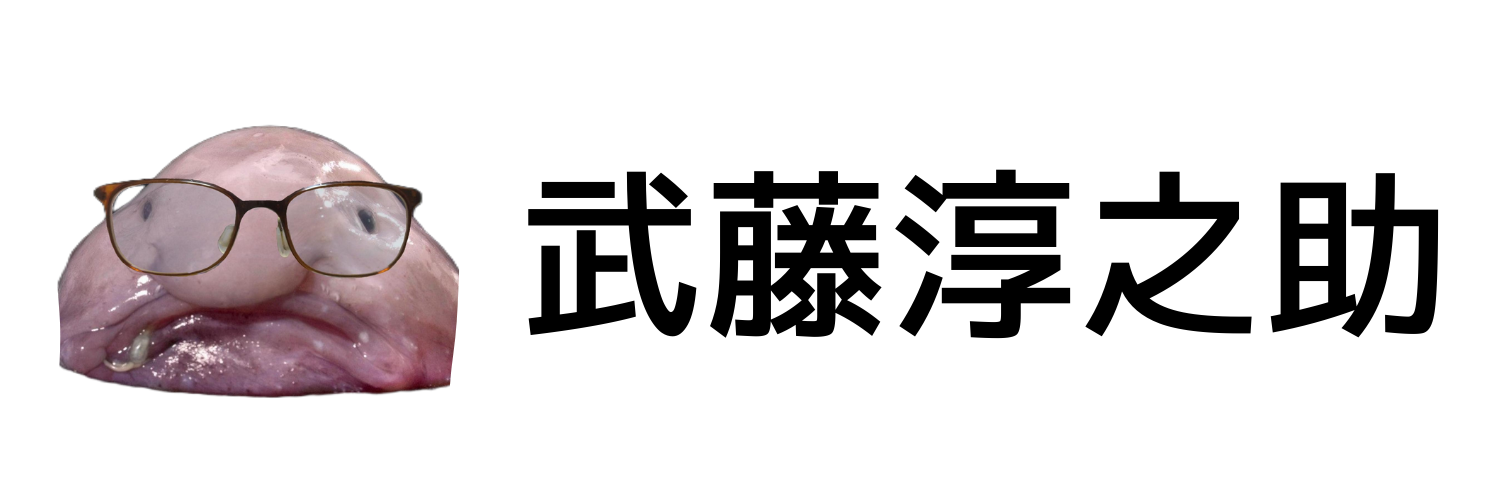
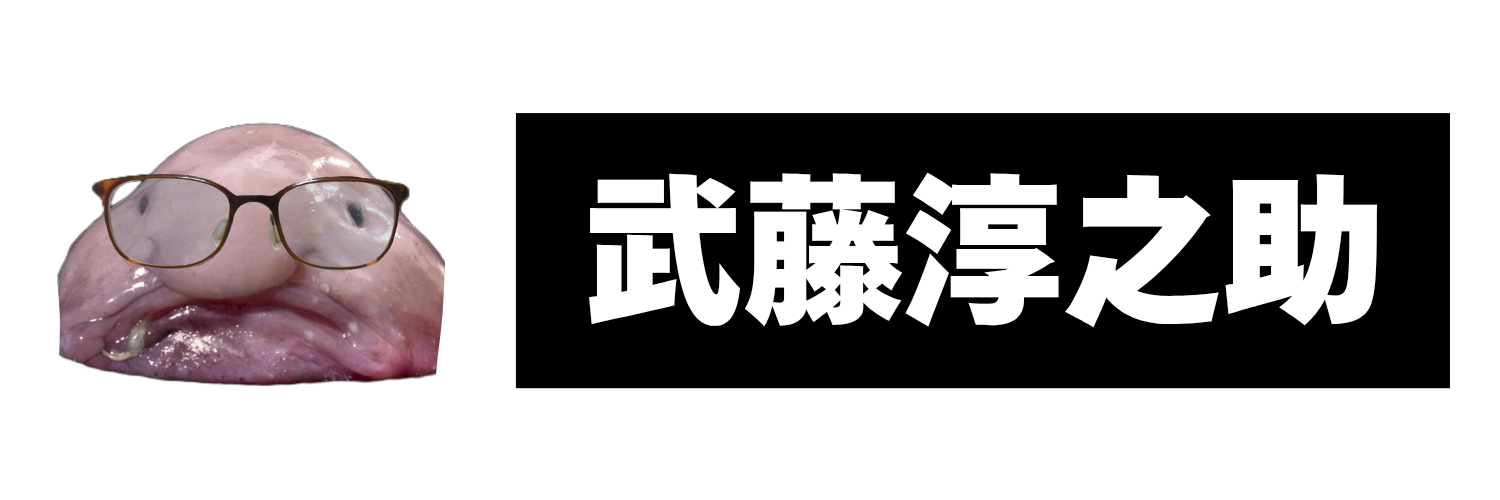
ヘッダーを変更、UI微調整

diff --git a/app/page.tsx b/app/page.tsx
@@ -13,7 +13,11 @@ export default function Home() {
         />
       </div>
       <div className="flex justify-center mt-4">
-        <h1 className="max-sm:text-xl sm:text-2xl font-bold">武藤淳之助チャンネル　楽譜配布サイト</h1>
+        <div className="flex flex-col items-center space-y-2">
+          <h1 className="max-sm:text-3xl sm:text-4xl font-extrabold flex items-center">武藤淳之助チャンネル</h1>
+          <h1 className="max-sm:text-3xl sm:text-4xl font-extrabold flex items-center">楽譜配布サイト</h1>
+        </div>
+        
       </div>
       <div className="flex justify-center items-center flex-col mt-8 text-center px-8 max-sm:text-sm">
         <p>ご視聴ありがとうございます！</p>
